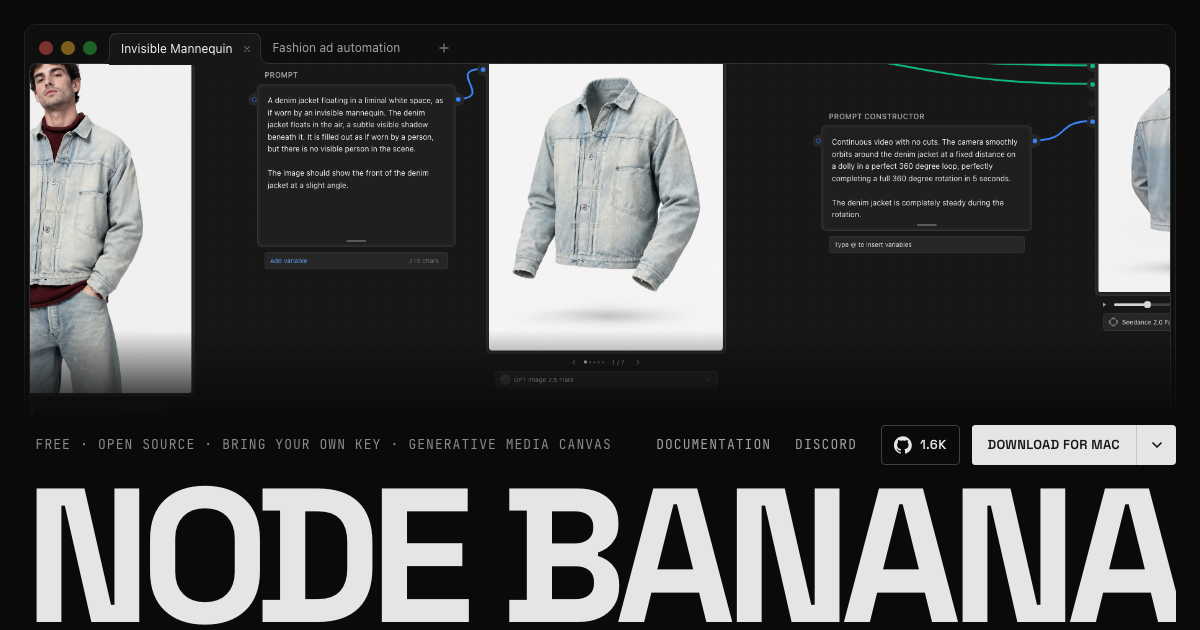
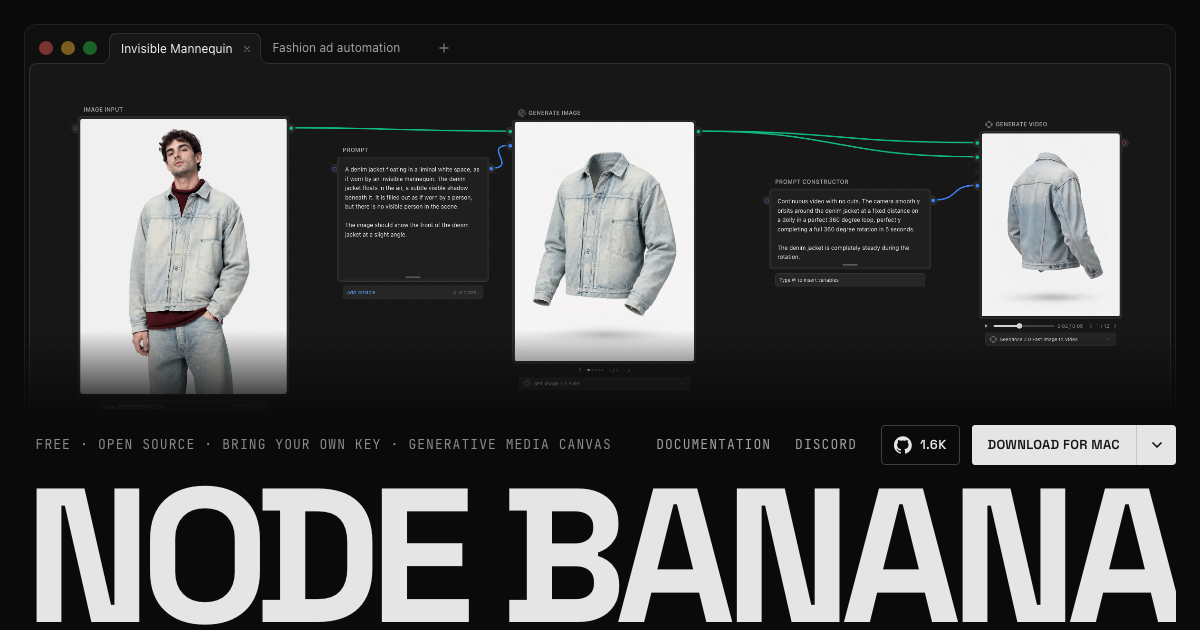
style(site): fit the workflow to the canvas width on load
The stage zoom is derived from the canvas width and the graph's bounds
(48px side margins, 40px under the tab strip), so the nodes fill the
frame at any desktop size; tablet and phone keep a fixed zoom centred
on the graph.

Claude-Session: https://claude.ai/code/session_01T1kkuVDQFFjukQvDKBWRas

diff --git a/site/index.html b/site/index.html
@@ -55,7 +55,7 @@
 
       <div class="canvas" data-canvas>
         <!-- World coordinates are the workflow's own; the stage is panned and zoomed as one. -->
-        <div class="stage stage--active" data-stage="mannequin" style="--cx: 723px; --cy: 700px; --zoom-desktop: 0.62; --zoom-tablet: 0.5; --zoom-phone: 0.42;">
+        <div class="stage stage--active" data-stage="mannequin" style="--gx: -375px; --gy: 336px; --gw: 2197px; --cx: 723px; --cy: 700px; --zoom-tablet: 0.5; --zoom-phone: 0.42;">
           <svg class="edges" width="1" height="1" overflow="visible">
             <path data-from="imageInput-22" data-from-handle="image" data-to="nanoBanana-3" data-to-handle="image-0" pathLength="1" d="M 74.5 386 C 304.0 386, 304.0 393, 533.5 393" class="edge edge--image"></path>
             <path data-from="prompt-23" data-from-handle="text" data-to="nanoBanana-3" data-to-handle="text-0" pathLength="1" d="M 495.5 471 C 555.5 471, 473.5 423, 533.5 423" class="edge edge--text"></path>
@@ -144,7 +144,7 @@ The denim jacket is completely steady during the rotation. </div><span class="pr
               </div>
           </div>
         </div>
-        <div class="stage" data-stage="fashion" style="--cx: 690px; --cy: 290px; --zoom-desktop: 0.9; --zoom-tablet: 0.7; --zoom-phone: 0.55;">
+        <div class="stage" data-stage="fashion" style="--gx: 80px; --gy: 4px; --gw: 1220px; --cx: 690px; --cy: 290px; --zoom-tablet: 0.7; --zoom-phone: 0.55;">
           <svg class="edges" width="1" height="1" overflow="visible">
             <path data-from="d-image" data-from-handle="image" data-to="d-generate" data-to-handle="image" pathLength="1" d="M 385.5 54 C 470.0 54, 470.0 144, 554.5 144" class="edge edge--image"></path>
             <path data-from="d-prompt" data-from-handle="text" data-to="d-generate" data-to-handle="text" pathLength="1" d="M 405.5 324 C 480.0 324, 480.0 174, 554.5 174" class="edge edge--text"></path>
@@ -212,7 +212,7 @@ The denim jacket is completely steady during the rotation. </div><span class="pr
               </div>
           </div>
         </div>
-        <template data-empty-stage><div class="stage" style="--cx: 0px; --cy: 0px;"></div></template>
+        <template data-empty-stage><div class="stage" style="--gx: 0px; --gy: 0px; --gw: 1000px; --cx: 0px; --cy: 0px;"></div></template>
       </div>
     </div>
 

diff --git a/site/styles.css b/site/styles.css
@@ -230,12 +230,16 @@ ul { margin: 0; padding: 0; list-style: none; }
    saved in the workflow file). It is panned and zoomed as one: --zoom, and a
    pan that centres world point (--cx, --cy) until the script takes over. */
 .stage {
-  --zoom-desktop: 0.72;
+  /* Desktop: fit the workflow to the canvas width with a 48px margin, top
+     40px under the tab strip. --gx/--gy/--gw are the graph's bounds (with
+     headers) in world px; --cx/--cy its centre, used on smaller screens. */
+  --pad: 48px;
+  --top: 40px;
   --zoom-tablet: 0.55;
   --zoom-phone: 0.42;
-  --zoom: var(--zoom-desktop);
-  --pan-x: calc(50cqw - var(--cx) * var(--zoom));
-  --pan-y: calc(50cqh - var(--cy) * var(--zoom));
+  --zoom: min(1, tan(atan2(100cqw - var(--pad) * 2, var(--gw, 1000px))));
+  --pan-x: calc((100cqw - var(--gw, 1000px) * var(--zoom)) / 2 - var(--gx, 0px) * var(--zoom));
+  --pan-y: calc(var(--top) - var(--gy, 0px) * var(--zoom));
   position: absolute;
   left: 0;
   top: 0;
@@ -556,7 +560,7 @@ ul { margin: 0; padding: 0; list-style: none; }
 
 /* Tablet: 2×2 node layout on a 710-wide stage. */
 @media (max-width: 899px) {
-  .stage { --zoom: var(--zoom-tablet); }
+  .stage { --zoom: var(--zoom-tablet); --pan-x: calc(50cqw - var(--cx, 0px) * var(--zoom)); --pan-y: calc(50cqh - var(--cy, 0px) * var(--zoom)); }
 }
 
 /* Phone: one tab, two nodes, stacked wordmark. */
